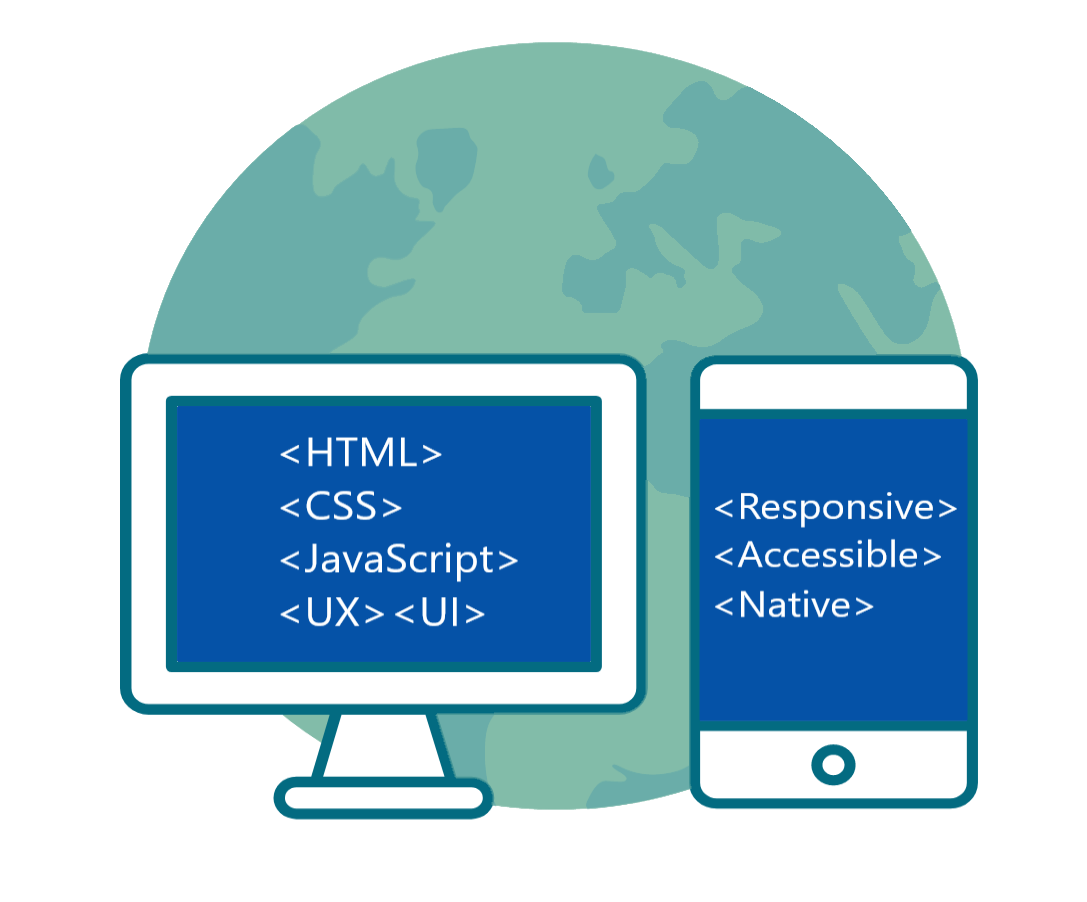
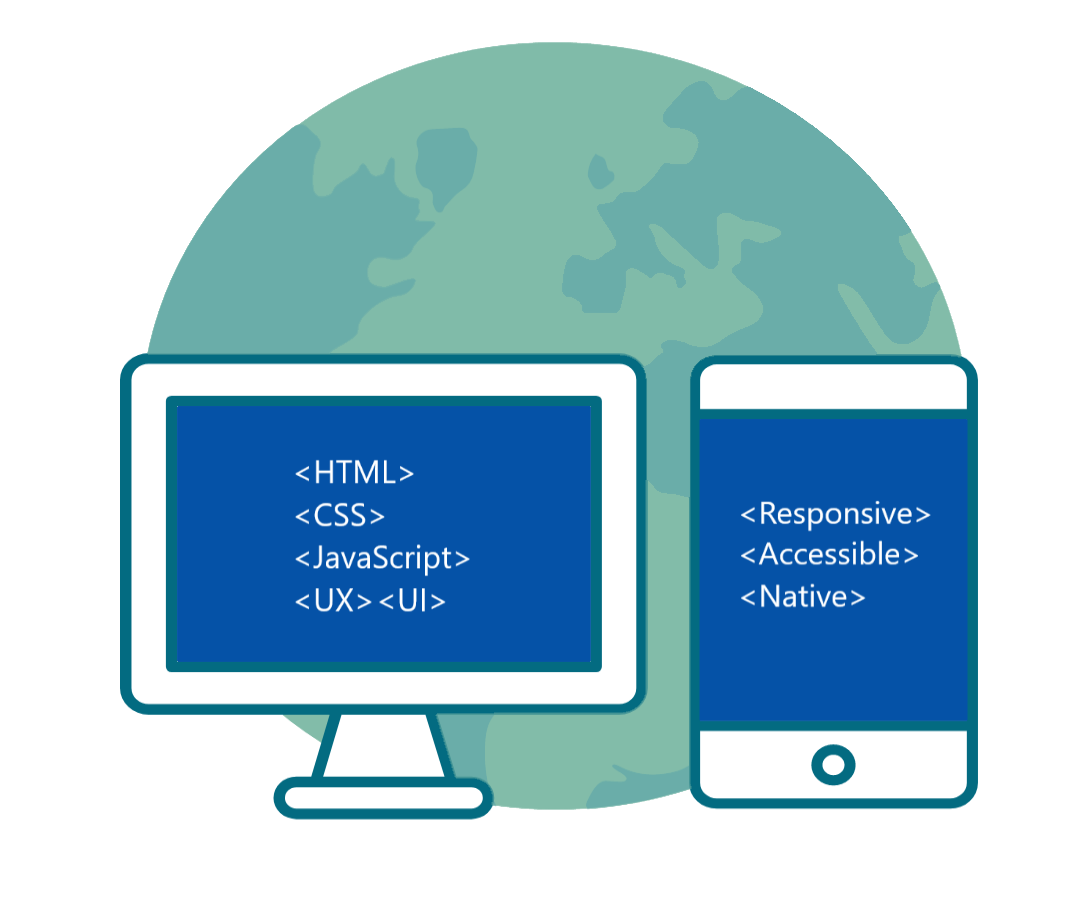
1.0.0: improve home page img / change font family

Changed region(s): [[0.2429, 0.4656, 0.4554, 0.714], [0.6679, 0.5277, 0.8804, 0.6829]]

diff --git a/src/Styles.css b/src/Styles.css
@@ -10,8 +10,8 @@ body {
     overflow-x: hidden;
 }
 
-p, h1, h3 {
-    font-family: sans-serif, Arial, Helvetica;
+p, a, h1, h3 {
+    font-family: arial, Helvetica, sans-serif;
 }
 
 .font-marketing-colour {
